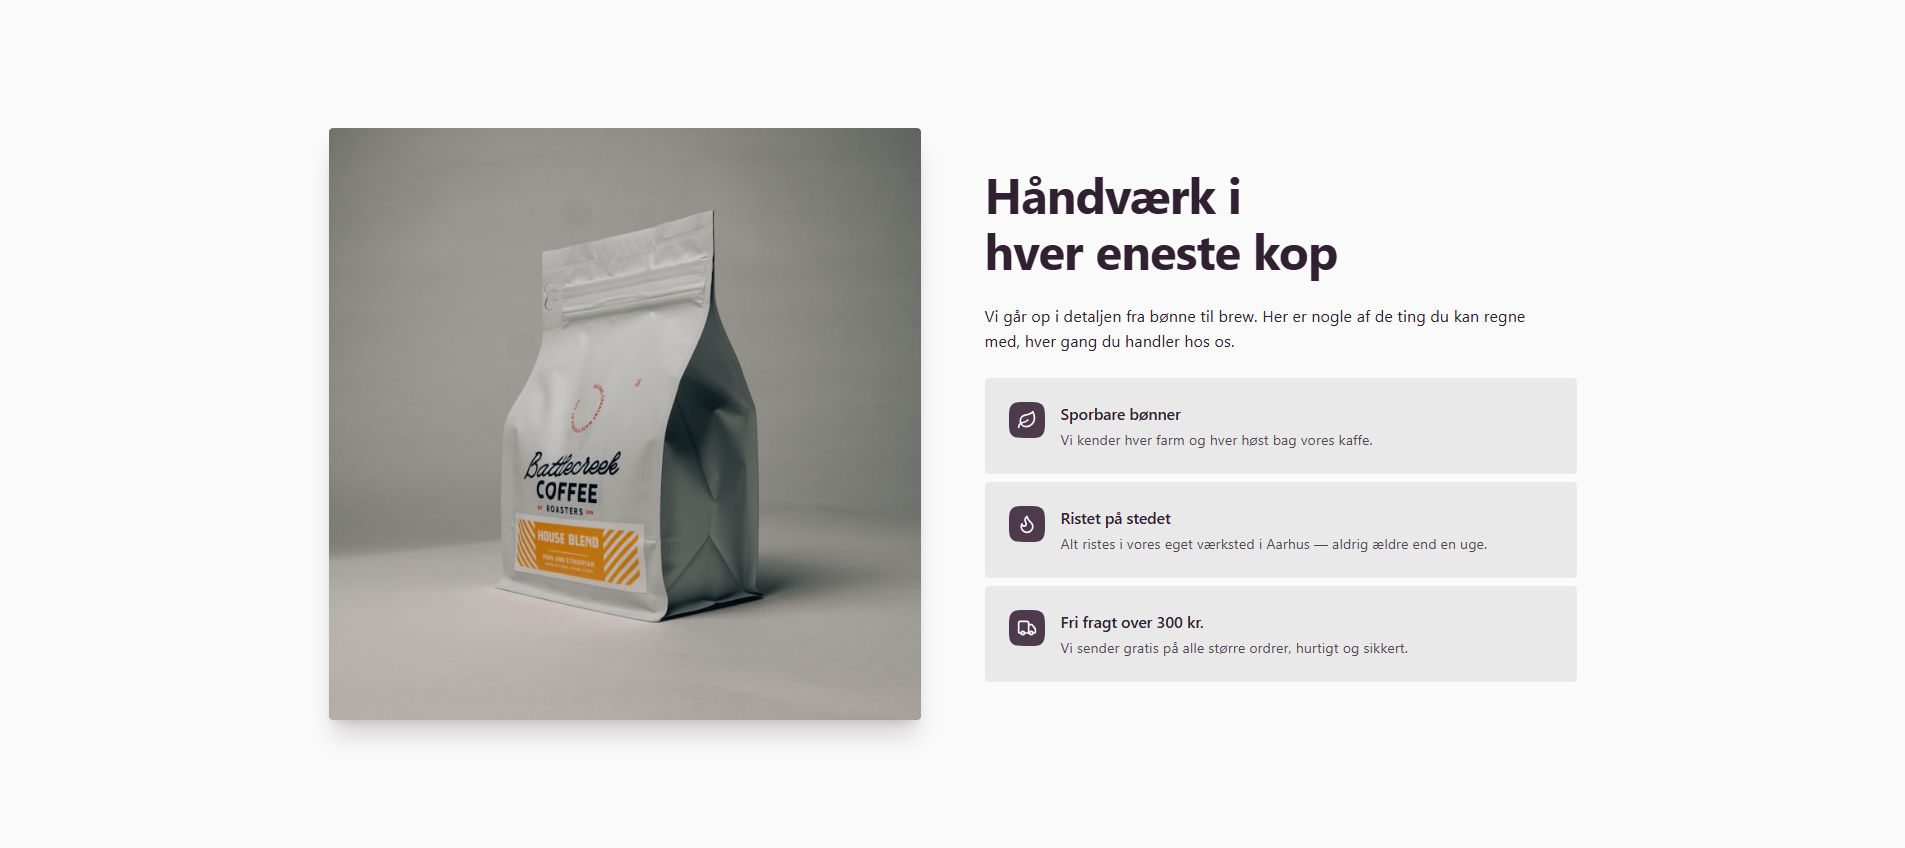
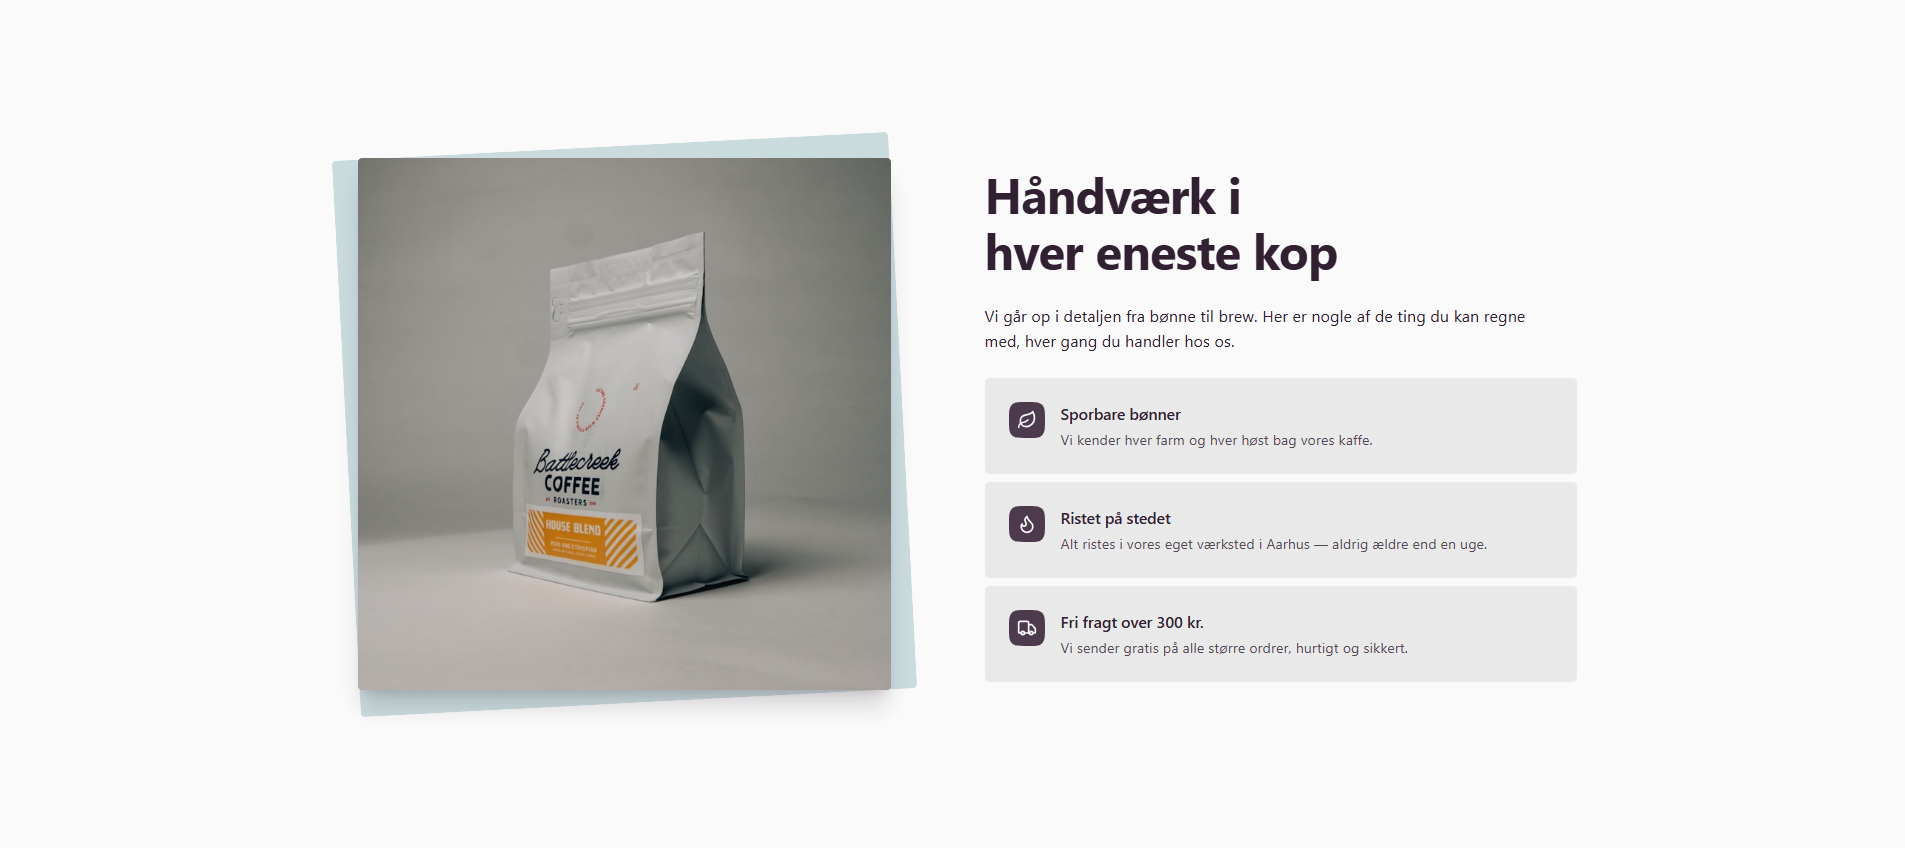
button and small fixes

Changed region(s): [[0.1549, 0.1533, 0.4955, 0.8892], [0.2478, 0.4599, 0.2787, 0.4906]]

diff --git a/src/components/ui/EviBackdropImage.tsx b/src/components/ui/EviBackdropImage.tsx
@@ -16,11 +16,18 @@ export const BACKDROP_FROM_LABEL: Record<string, BackdropForm> = {
   Primær: "rotated",
 };
 
-// Formens position/rotation/afrunding. Farven sættes separat (theme-surface-
-// secondary): kontrast-adaptiv brand-tint (blød på lys, dæmpet på mørk) — IKKE
-// theme-*-soft (solid lys → grelt på mørke sektioner). Peeker let uden for billedet.
+// Formens position/rotation/afrunding.
 const formClass: Record<Exclude<BackdropForm, "none">, string> = {
   rotated: "inset-[3%] -rotate-3 rounded-evi",
+};
+
+// Backdrop-FARVE (Prismic-label) → surface-tint på formen. Kontrast-adaptive
+// brand-tints (blød på lys, dæmpet på mørk) — IKKE theme-*-soft (solid lys →
+// grelt på mørke sektioner). DELT af alle slices med et backdrop-farvevalg.
+export const BACKDROP_COLOR_CLASS: Record<string, string> = {
+  Sekundær: "theme-surface-secondary",
+  Primær: "theme-surface-primary",
+  Neutral: "theme-surface-neutral",
 };
 
 export type EviBackdropImageProps = {
@@ -36,6 +43,11 @@ export type EviBackdropImageProps = {
    * Udvid via `formClass` + `BACKDROP_FROM_LABEL`. @default "rotated"
    */
   backdrop?: BackdropForm;
+  /**
+   * Backdrop-farve (Prismic-label: "Sekundær"/"Primær"/"Neutral"). Ignoreres når
+   * `backdrop="none"`. Udvid via `BACKDROP_COLOR_CLASS`. @default "Sekundær"
+   */
+  color?: string;
   /** Eager-load (LCP/hero-billede). @default false */
   priority?: boolean;
   className?: string;
@@ -51,6 +63,7 @@ export function EviBackdropImage({
   field,
   mobileField,
   backdrop = "rotated",
+  color = "Sekundær",
   priority = false,
   className,
 }: EviBackdropImageProps): React.ReactElement | null {
@@ -90,7 +103,8 @@ export function EviBackdropImage({
       <div
         aria-hidden
         className={cn(
-          "absolute -z-10 theme-surface-secondary",
+          "absolute -z-10",
+          BACKDROP_COLOR_CLASS[color] ?? "theme-surface-secondary",
           formClass[backdrop],
         )}
       />

diff --git a/app/globals.css b/app/globals.css
@@ -639,6 +639,7 @@
     transition:
       background-color 200ms ease-out,
       color 200ms ease-out,
+      box-shadow 200ms ease-out,
       opacity 200ms ease-out;
   }
 
@@ -880,10 +881,38 @@
   /* ── Arrow icon animation ── */
 
   .btn-arrow .btn-arrow-icon {
-    transition: transform 300ms ease-out;
+    transition: rotate 250ms ease;
   }
   .btn-arrow:hover .btn-arrow-icon {
-    transform: translateX(4px);
+    /* → i hvile, ↗ på hover — legende flourish, ikke et permanent
+       ekstern-link-signal (pilen er desuden aria-hidden). */
+    rotate: -45deg;
+  }
+
+  /* ── Solid-knap sheen: subtilt lys-glimt fejer hen over på hover ──
+     currentColor = knappens tekstfarve (kontrasterer bg'en), så glimtet
+     virker på ALLE brand-farver uden hardcodede farver. Reduced-motion
+     -reset slår det fra. */
+  [data-slot="evi-button"][data-appearance="solid"] {
+    position: relative;
+    overflow: hidden;
+  }
+  [data-slot="evi-button"][data-appearance="solid"]::after {
+    content: "";
+    position: absolute;
+    inset: 0;
+    pointer-events: none;
+    background: linear-gradient(
+      115deg,
+      transparent 40%,
+      color-mix(in oklch, currentColor 14%, transparent) 50%,
+      transparent 60%
+    );
+    transform: translateX(-120%);
+    transition: transform 700ms ease;
+  }
+  [data-slot="evi-button"][data-appearance="solid"]:hover::after {
+    transform: translateX(120%);
   }
 
   /* ═══════════════════════════════════════════════════════

diff --git a/prismicio-types.d.ts b/prismicio-types.d.ts
@@ -1005,6 +1005,17 @@ export interface HeroSliceSplitPrimary {
 	backdrop: prismic.SelectField<"Ingen" | "Roteret", "filled">;
 	
 	/**
+	 * Backdrop-farve field in *Hero → Split → Primary*
+	 *
+	 * - **Field Type**: Select
+	 * - **Placeholder**: *None*
+	 * - **Default Value**: Sekundær
+	 * - **API ID Path**: hero.split.primary.backdrop_color
+	 * - **Documentation**: https://prismic.io/docs/fields/select
+	 */
+	backdrop_color: prismic.SelectField<"Sekundær" | "Primær" | "Neutral", "filled">;
+	
+	/**
 	 * Baggrundstema field in *Hero → Split → Primary*
 	 *
 	 * - **Field Type**: Select
@@ -1449,6 +1460,17 @@ export interface SectionFeaturesSliceSplitPrimary {
 	 * - **Documentation**: https://prismic.io/docs/fields/select
 	 */
 	backdrop: prismic.SelectField<"Ingen" | "Roteret", "filled">;
+	
+	/**
+	 * Backdrop-farve field in *SectionFeatures → Split → Primary*
+	 *
+	 * - **Field Type**: Select
+	 * - **Placeholder**: *None*
+	 * - **Default Value**: Sekundær
+	 * - **API ID Path**: section_features.split.primary.backdrop_color
+	 * - **Documentation**: https://prismic.io/docs/fields/select
+	 */
+	backdrop_color: prismic.SelectField<"Sekundær" | "Primær" | "Neutral", "filled">;
 	
 	/**
 	 * Billedets side (desktop) field in *SectionFeatures → Split → Primary*

diff --git a/src/components/ui/EviImage.tsx b/src/components/ui/EviImage.tsx
@@ -50,6 +50,16 @@ export type EviImageProps = Omit<React.ComponentProps<"div">, "children"> & {
   sizes?: string;
   /** Klasse på selve `<img>` / `<PrismicNextImage>`. */
   imageClassName?: string;
+  /**
+   * Blødt zoom (~1.03) når en forælder med `group`-klassen hover'es. Kræver at
+   * kort-wrapperen har `className="group"` (billedet klippes af containerens
+   * `overflow-hidden`).
+   *
+   * BRUG KUN når HELE kortet er et link — zoom er en "klik mig"-affordance. På
+   * kort hvor kun en knap er klikbar (fx bento) lover det interaktivitet der
+   * ikke findes → brug det ikke der. @default false
+   */
+  hoverZoom?: boolean;
 };
 
 const aspectClasses: Record<AspectRatio, string> = {
@@ -85,6 +95,7 @@ export function EviImage({
   sizes,
   className,
   imageClassName,
+  hoverZoom = false,
   style,
   ...props
 }: EviImageProps): React.ReactElement | null {
@@ -115,6 +126,8 @@ export function EviImage({
   // (billeder har ingen tekst; skærmlæsere bruger alt).
   const imgClasses = cn(
     "size-full object-contain select-none",
+    hoverZoom &&
+      "transition-transform duration-500 ease-out group-hover:scale-[1.03]",
     imageClassName,
   );
 

diff --git a/src/components/features/parts/FeaturesSplitLayout.tsx b/src/components/features/parts/FeaturesSplitLayout.tsx
@@ -62,7 +62,12 @@ export function FeaturesSplitLayout({
   const imageTopOnMobile = p.mobile_order !== "Tekst øverst";
 
   const imageEl = (
-    <EviBackdropImage field={p.image} backdrop={backdrop} priority={isHero} />
+    <EviBackdropImage
+      field={p.image}
+      backdrop={backdrop}
+      color={p.backdrop_color}
+      priority={isHero}
+    />
   );
   const contentEl = (
     <EviStack gap="lg">

diff --git a/slices/SectionFeatures/mock.ts b/slices/SectionFeatures/mock.ts
@@ -86,7 +86,8 @@ export const mock: Record<string, Content.SectionFeaturesSlice> = {
         },
       ],
       feature_color: "Neutral",
-      backdrop: "Ingen",
+      backdrop: "Roteret",
+      backdrop_color: "Primær",
       image_side: "Venstre",
       mobile_order: "Billede øverst",
       background_theme: "Lys",

diff --git a/src/components/ui/EviPhoneMockup.tsx b/src/components/ui/EviPhoneMockup.tsx
@@ -111,7 +111,7 @@ export function EviPhoneMockup({
           {...(preload
             ? { preload: true }
             : { loading: (eager ? "eager" : "lazy") as "eager" | "lazy" })}
-          className="object-cover"
+          className="object-cover select-none"
           fallbackAlt=""
         />
       </div>

diff --git a/slices/Hero/mock.ts b/slices/Hero/mock.ts
@@ -107,6 +107,7 @@ export const mock: Record<string, Content.HeroSlice> = {
         edit: { x: 0, y: 0, zoom: 1, background: "transparent" },
       } as Content.HeroSliceSplitPrimary["image_mobile"],
       backdrop: "Roteret",
+      backdrop_color: "Sekundær",
       background_theme: "Lys",
     },
   },

diff --git a/src/components/hero/parts/HeroSplitLayout.tsx b/src/components/hero/parts/HeroSplitLayout.tsx
@@ -100,6 +100,7 @@ export function HeroSplitLayout({
           field={p.image}
           mobileField={p.image_mobile}
           backdrop={backdrop}
+          color={p.backdrop_color}
           priority={isHero}
         />
       </EviSplit>
